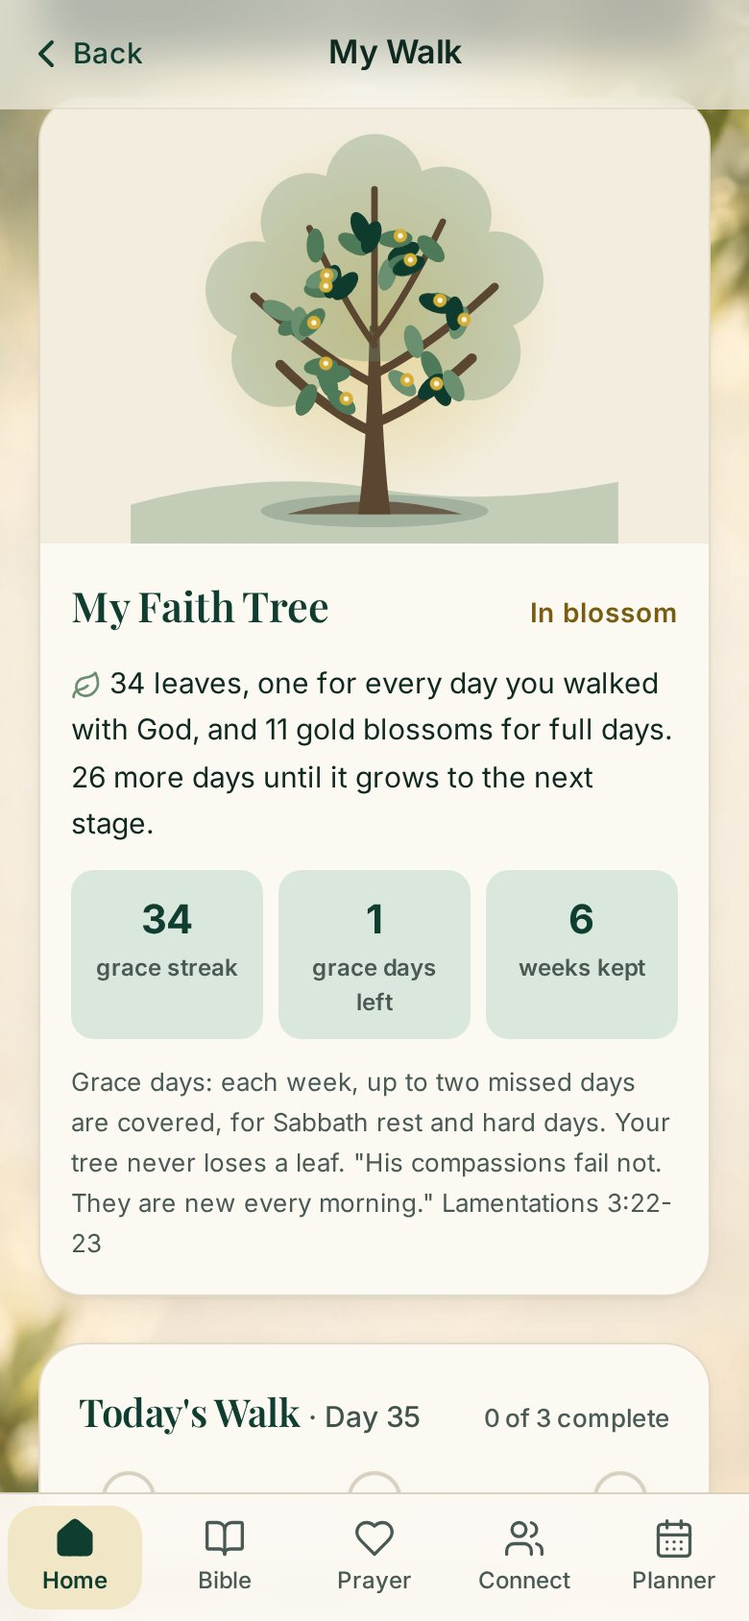
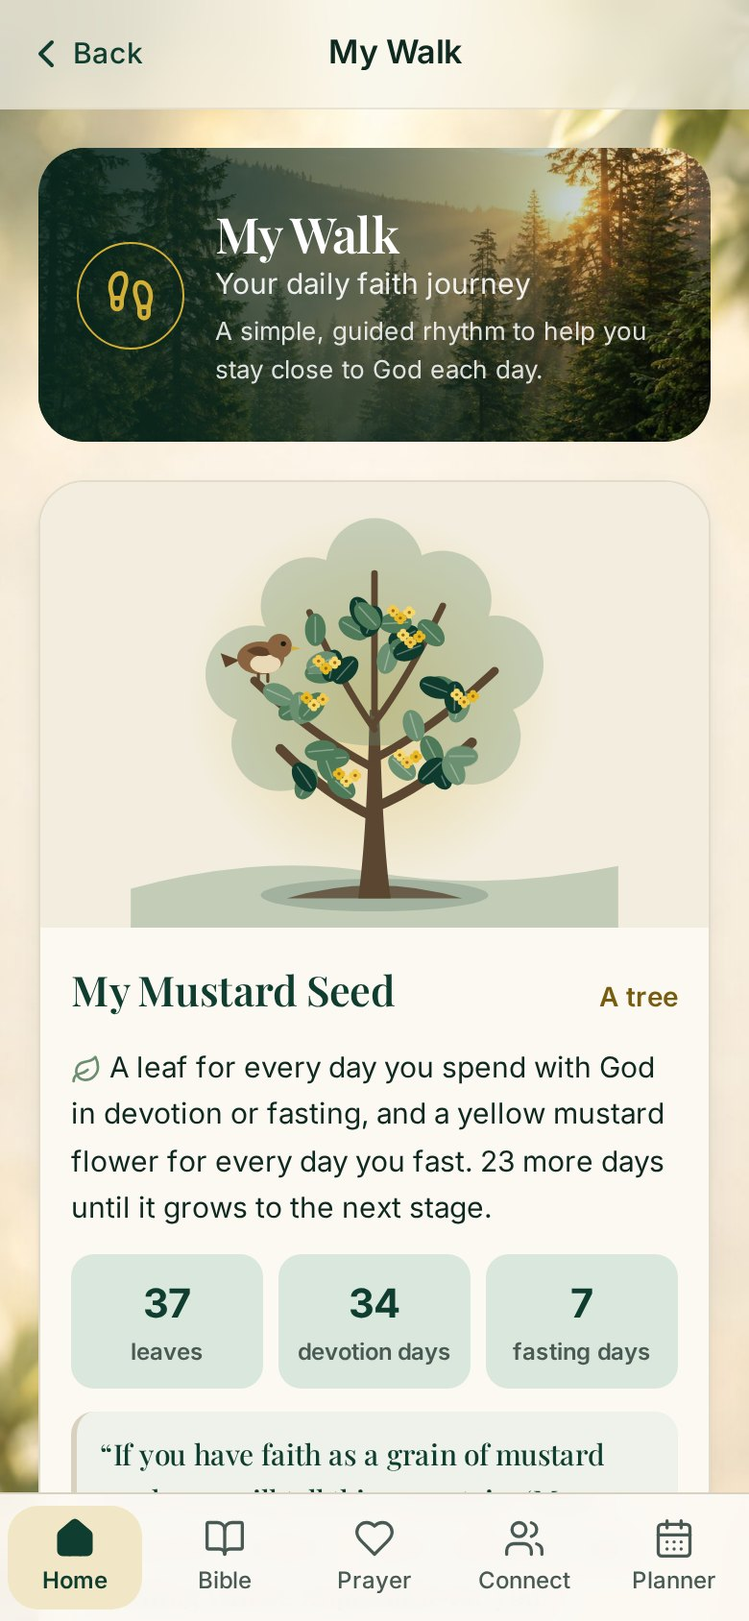
Update website

diff --git a/privacy.html b/privacy.html
@@ -16,9 +16,9 @@
   <a class="btn gold" href="index.html#wl-hero">Join waitlist</a>
 </div></header>
 <main id="main" class="doc"><div class="wrap">
-<h1>Privacy Policy</h1><p class="eff">Effective November 8, 2026</p>
+<h1>Privacy Policy</h1><p class="eff">Effective November 14, 2026</p>
 <p class="intro">Even Here is a Christian Bible and devotional app. Many of the things you write in it are deeply personal, so we built it to collect as little as possible and to keep your private words private. This policy explains what we collect, why, and the choices you have.</p><nav class="toc" aria-label="On this page"><a href="#the-short-version">The short version</a><a href="#information-you-give-us">Information you give us</a><a href="#what-are-you-facing-and-ai">&quot;What are you facing?&quot; and AI</a><a href="#how-even-here-uses-ai">How Even Here uses AI</a><a href="#information-we-do-not-collect">Information we do not collect</a><a href="#how-we-use-information">How we use information</a><a href="#who-we-share-with">Who we share with</a><a href="#safety">Safety</a><a href="#your-choices">Your choices</a><a href="#children">Children</a><a href="#security">Security</a><a href="#changes">Changes</a></nav>
-<h2 id="the-short-version">The short version</h2><ul><li>You can use Even Here without an account. Without one, everything you save stays on your device.</li><li>Nothing you type in Even Here is sent to AI. That includes your prayers, journal entries, notes, check-ins, healing reflections and the words you type in &quot;What are you facing?&quot;.</li><li>We do not sell your data, show ads, or use third-party analytics or tracking.</li><li>You can delete your account and its data at any time from Profile in the app.</li></ul><h2 id="information-you-give-us">Information you give us</h2><ul><li>Account (optional): if you sign up with email, your email address and a password, handled by our authentication provider (Supabase). We never see your password. If you use Sign in with Apple, Apple shares your name and an email address with us. You can choose Hide My Email, and Apple will give us a private relay address instead.</li><li>Your Even Here content: saved verses, prayers, journal entries, Scripture notes, fasts, plans, check-ins, healing reflections and settings. If you are signed in, these are stored in our database so they sync across your devices, protected so that only your account can read or change them.</li><li>Connect (not available yet): the Prayer Wall, groups and Friends are not turned on in the current app. If we turn them on, they would use your community name, posts, replies, prayer responses, group memberships, friends, blocks and reports. Posts and replies would be visible to other members by design, and moderators could review reported content. We will update this policy before they are turned on.</li><li>Blessing Cards: when you send a card, its words (names, message, verse choice and prayer) are saved under a random private code so the link stays short. Anyone with the link can open that card, but cards cannot be searched or listed. The card is not connected to your account. Card replies: the person who opens a card can choose to send one reply from a fixed list (for example &quot;Amen&quot; or two hearts). Nothing typed is sent. The reply is saved with the card, and only the sender can see it, using a private key kept with the sender&#x27;s own copy of the card. We store only a scrambled version (a hash) of that key. We never record whether, when or how often a card was opened.</li><li>Waitlist: if you join our launch waitlist on our website, your email address, used only to tell you when Even Here is available.</li></ul><h2 id="what-are-you-facing-and-ai">&quot;What are you facing?&quot; and AI</h2><p>When you type in &quot;What are you facing?&quot;, the iPhone app matches your words to topics from the Even Here library on your phone. What you type is not sent to us, to AI, or anywhere else.</p><p>The current iPhone app has no live AI features. If we add an AI feature later, such as Smart matching, it will be off until you choose to allow it, and we will update this policy first.</p><p>AI never writes Scripture in Even Here. Verses always come from the King James Version or World English Bible.</p><h2 id="how-even-here-uses-ai">How Even Here uses AI</h2><ul><li>Scripture: never written by AI. Every verse comes from the King James Version or World English Bible.</li><li>Reflections, prayers, studies and summaries marked &quot;Written by Even Here&quot; were drafted with help from AI writing tools, then reviewed and edited by the Even Here team.</li><li>Artwork: Selah, the Blessing Card illustrations and backgrounds were made with AI image tools and chosen by the Even Here team.</li><li>Live AI: none in the current iPhone app. Nothing you type is sent to AI.</li><li>Your private words (prayers, journals, notes, check-ins and healing entries) are never sent to AI and never used to train AI.</li></ul><h2 id="information-we-do-not-collect">Information we do not collect</h2><ul><li>We do not collect your location, contacts, photos or microphone audio. Even Here never records audio. If you use your keyboard&#x27;s dictation, that is handled by your device.</li><li>We do not use advertising identifiers, ad networks, or third-party analytics.</li><li>Reminders you set, such as fasting or check-in reminders, are scheduled on your phone. We don&#x27;t receive them.</li></ul><h2 id="how-we-use-information">How we use information</h2><ul><li>To run Even Here: saving and syncing your content, signing you in, and checking App Store purchases.</li><li>To keep any future community features safe: reviewing reports, hiding harmful posts, and honoring blocks.</li><li>To contact you about your account, or about launch if you joined the waitlist.</li><li>We never use your private content to train AI models.</li></ul><h2 id="who-we-share-with">Who we share with</h2><p>We share information only with service providers that help run Even Here, under their own privacy and security terms: our database and authentication provider (Supabase), our website hosting provider, Apple when you sign in with Apple, download the app, or buy a membership or card pack, and RevenueCat, which checks App Store purchases for us. RevenueCat receives your purchase history and a random app ID (your account ID if you&#x27;re signed in), never your journal, prayers or other entries. We may also disclose information if the law requires it or to protect someone&#x27;s safety.</p><h2 id="safety">Safety</h2><p>If you type words that suggest you may be in crisis or in danger, Even Here shows help such as the 988 Suicide &amp; Crisis Lifeline or the National Domestic Violence Hotline. This check happens on your device. We are not notified, and we do not contact anyone.</p><h2 id="your-choices">Your choices</h2><ul><li>Use Even Here without an account, so your data stays on your device.</li><li>Turn daily check-ins and reminders off in Profile.</li><li>Edit or delete individual entries at any time.</li><li>Delete your account in Profile. This permanently removes your account and the content stored with it.</li><li>To be removed from the waitlist, or to ask about your data, contact us using the details below.</li></ul><h2 id="children">Children</h2><p>Even Here is not directed to children under 13, and we do not knowingly collect personal information from them. Accounts are for people 13 and older. Before an account is created on iPhone, we may ask Apple for an age range (for example, under 13, 13 to 17, or 18 and over) where the law requires it. Apple shares only the range, never a birthday, and we keep only a note on your device that the check passed. You can use Even Here without an account at any age. If you believe a child has given us information, contact us and we will delete it.</p><h2 id="security">Security</h2><p>Data is sent over encrypted connections, and signed-in content is protected by database access rules so that each account can reach only its own private data. No system is perfectly secure, but we work to protect what you trust us with.</p><h2 id="changes">Changes</h2><p>If we change this policy, we will update the effective date and, for important changes, let you know in the app.</p>
+<h2 id="the-short-version">The short version</h2><ul><li>You can use Even Here without an account. Without one, everything you save stays on your device.</li><li>Nothing you type in Even Here is sent to AI. That includes your prayers, journal entries, notes, check-ins, healing reflections and the words you type in &quot;What are you facing?&quot;.</li><li>We do not sell your data, show ads, or use third-party analytics or tracking.</li><li>You can delete your account and its data at any time from Profile in the app.</li></ul><h2 id="information-you-give-us">Information you give us</h2><ul><li>Account (optional): if you sign up with email, your email address and a password, handled by our authentication provider (Supabase). We never see your password. If you use Sign in with Apple, Apple shares your name and an email address with us. You can choose Hide My Email, and Apple will give us a private relay address instead.</li><li>Your Even Here content: saved verses, prayers, journal entries, Scripture notes, fasts, plans, check-ins, healing reflections and settings. If you are signed in, these are stored in our database so they sync across your devices, protected so that only your account can read or change them.</li><li>Connect (not available yet): the Prayer Wall, groups and Friends are not turned on in the current app. If we turn them on, they would use your community name, posts, replies, prayer responses, group memberships, friends, blocks and reports. Posts and replies would be visible to other members by design, and moderators could review reported content. We will update this policy before they are turned on.</li><li>Blessing Cards: when you send a card, its words (names, message, verse choice and prayer) are saved under a random private code so the link stays short. Anyone with the link can open that card, but cards cannot be searched or listed. The card is not connected to your account. Card replies: the person who opens a card can choose to send one reply, either from a short list (for example &quot;Thank you&quot; or two hearts) or a few words they write themselves (up to 300 characters). The reply is saved with the card, is never sent to AI, and only the sender can see it, using a private key kept with the sender&#x27;s own copy of the card. We store only a scrambled version (a hash) of that key. We never record whether, when or how often a card was opened.</li><li>Waitlist: if you join our launch waitlist on our website, your email address, used only to tell you when Even Here is available.</li></ul><h2 id="what-are-you-facing-and-ai">&quot;What are you facing?&quot; and AI</h2><p>When you type in &quot;What are you facing?&quot;, the iPhone app matches your words to topics from the Even Here library on your phone. What you type is not sent to us, to AI, or anywhere else.</p><p>The current iPhone app has no live AI features. If we add an AI feature later, such as Smart matching, it will be off until you choose to allow it, and we will update this policy first.</p><p>AI never writes Scripture in Even Here. Verses always come from the King James Version or World English Bible.</p><h2 id="how-even-here-uses-ai">How Even Here uses AI</h2><ul><li>Scripture: never written by AI. Every verse comes from the King James Version or World English Bible.</li><li>Reflections, prayers, studies and summaries marked &quot;Written by Even Here&quot; were drafted with help from AI writing tools, then reviewed and edited by the Even Here team.</li><li>Artwork: Selah, the Blessing Card illustrations and backgrounds were made with AI image tools and chosen by the Even Here team.</li><li>Live AI: none in the current iPhone app. Nothing you type is sent to AI.</li><li>Your private words (prayers, journals, notes, check-ins and healing entries) are never sent to AI and never used to train AI.</li></ul><h2 id="information-we-do-not-collect">Information we do not collect</h2><ul><li>We do not collect your location, contacts, photos or microphone audio. Even Here never records audio. If you use your keyboard&#x27;s dictation, that is handled by your device.</li><li>We do not use advertising identifiers, ad networks, or third-party analytics.</li><li>Reminders you set, such as fasting or check-in reminders, are scheduled on your phone. We don&#x27;t receive them.</li><li>News notifications (iPhone, off unless you turn them on in Profile): if you turn on &quot;News from Even Here&quot;, your phone&#x27;s push token, a code from Apple that lets us send a notification, is saved without your account, name or email. We use it only for occasional announcements, at most one a week. Turning news off deletes it. If you remove the app, it is deleted the next time we try to send.</li></ul><h2 id="how-we-use-information">How we use information</h2><ul><li>To run Even Here: saving and syncing your content, signing you in, and checking App Store purchases.</li><li>To keep any future community features safe: reviewing reports, hiding harmful posts, and honoring blocks.</li><li>To contact you about your account, or about launch if you joined the waitlist.</li><li>We never use your private content to train AI models.</li></ul><h2 id="who-we-share-with">Who we share with</h2><p>We share information only with service providers that help run Even Here, under their own privacy and security terms: our database and authentication provider (Supabase), our website hosting provider, Apple when you sign in with Apple, download the app, or buy a membership or card pack, and RevenueCat, which checks App Store purchases for us. RevenueCat receives your purchase history and a random app ID (your account ID if you&#x27;re signed in), never your journal, prayers or other entries. We may also disclose information if the law requires it or to protect someone&#x27;s safety.</p><h2 id="safety">Safety</h2><p>If you type words that suggest you may be in crisis or in danger, Even Here shows help such as the 988 Suicide &amp; Crisis Lifeline or the National Domestic Violence Hotline. This check happens on your device. We are not notified, and we do not contact anyone.</p><h2 id="your-choices">Your choices</h2><ul><li>Use Even Here without an account, so your data stays on your device.</li><li>Turn daily check-ins, reminders and news notifications off in Profile.</li><li>Edit or delete individual entries at any time.</li><li>Delete your account in Profile. This permanently removes your account and the content stored with it.</li><li>To be removed from the waitlist, or to ask about your data, contact us using the details below.</li></ul><h2 id="children">Children</h2><p>Even Here is not directed to children under 13, and we do not knowingly collect personal information from them. Accounts are for people 13 and older. Before an account is created on iPhone, we may ask Apple for an age range (for example, under 13, 13 to 17, or 18 and over) where the law requires it. Apple shares only the range, never a birthday, and we keep only a note on your device that the check passed. You can use Even Here without an account at any age. If you believe a child has given us information, contact us and we will delete it.</p><h2 id="security">Security</h2><p>Data is sent over encrypted connections, and signed-in content is protected by database access rules so that each account can reach only its own private data. No system is perfectly secure, but we work to protect what you trust us with.</p><h2 id="changes">Changes</h2><p>If we change this policy, we will update the effective date and, for important changes, let you know in the app.</p>
 <div class="contact"><h2>Questions</h2><p>Reach us at <a class="link" href="mailto:support@getevenhere.com">support@getevenhere.com</a>.</p></div>
 </div></main>
 <footer><div class="wrap">

diff --git a/terms.html b/terms.html
@@ -16,7 +16,7 @@
   <a class="btn gold" href="index.html#wl-hero">Join waitlist</a>
 </div></header>
 <main id="main" class="doc"><div class="wrap">
-<h1>Terms of Use</h1><p class="eff">Effective November 8, 2026</p>
+<h1>Terms of Use</h1><p class="eff">Effective November 14, 2026</p>
 <p class="intro">Welcome to Even Here. By using the app or website, you agree to these terms. Please read them along with our Privacy Policy.</p><nav class="toc" aria-label="On this page"><a href="#what-even-here-is">What Even Here is</a><a href="#not-professional-advice">Not professional advice</a><a href="#your-account">Your account</a><a href="#community-rules-when-connect-is-available">Community rules (when Connect is available)</a><a href="#your-content">Your content</a><a href="#bible-text-and-even-here-content">Bible text and Even Here content</a><a href="#subscriptions-and-free-trial">Subscriptions and free trial</a><a href="#acceptable-use">Acceptable use</a><a href="#disclaimers">Disclaimers</a><a href="#limitation-of-liability">Limitation of liability</a><a href="#indemnification">Indemnification</a><a href="#apple-app-store-terms">Apple App Store terms</a><a href="#changes-and-governing-law">Changes and governing law</a></nav>
 <h2 id="what-even-here-is">What Even Here is</h2><p>Even Here is a Christian devotional companion written from an evangelical, Protestant perspective. It offers Bible reading, devotionals, prayer tools, fasting guidance and help for hard moments. Even Here is run by its owner in Colorado Springs, Colorado (&quot;Even Here,&quot; &quot;we&quot; or &quot;us&quot;).</p><h2 id="not-professional-advice">Not professional advice</h2><p>Even Here is not a substitute for a pastor, counselor, doctor, lawyer or emergency service. Fasting guidance is spiritual, not medical; talk to a doctor before fasting from food, especially if you are pregnant, have a medical condition or take medication. If you are in crisis, call or text 988 in the U.S. If you are in danger, call 911.</p><h2 id="your-account">Your account</h2><p>You can use most of Even Here without an account. You must be 13 or older to create one. If you create one, keep your password safe and give accurate information. You may delete your account at any time in Profile. We may suspend or close accounts that break these terms.</p><h2 id="community-rules-when-connect-is-available">Community rules (when Connect is available)</h2><ul><li>The Prayer Wall, groups and Friends are not turned on in the current app. These rules apply if and when they are.</li><li>You must be 13 or older to use Connect.</li><li>Speak the truth in love. No insults, harassment, hate, threats, sexual content, spam, selling or recruiting.</li><li>No shaming and no spiritual pressure. Never pressure anyone to attend, give, serve or forgive on a timeline.</li><li>Respect privacy. Do not share someone else&#x27;s story or details without permission.</li><li>Even Here has zero tolerance for objectionable content and abusive users. You must agree to the Community Guidelines before posting.</li><li>Anonymous posts hide your name from other members, but Even Here moderators can see which account posted so we can keep people safe. No app can promise complete anonymity.</li><li>You can report any post and block any person. We review reports within 24 hours, remove content that breaks these rules, and may pause or permanently stop accounts from posting. Posts reported by several people are hidden automatically.</li><li>Even Here is not an emergency service. If you or someone else is in danger, call or text 988, or call 911.</li></ul><h2 id="your-content">Your content</h2><p>You own what you write. You give Even Here permission to store and display it only as needed to run the app, for example syncing your private entries to your devices or showing your community posts to other members.</p><h2 id="bible-text-and-even-here-content">Bible text and Even Here content</h2><p>Bible text comes from the King James Version and the World English Bible, both in the public domain in the United States. Devotionals, reflections, prayers, artwork and design written or made by Even Here are labeled in the app and are owned by Even Here. Please do not copy them for commercial use without permission.</p><h2 id="subscriptions-and-free-trial">Subscriptions and free trial</h2><p>Even Here has a free plan and a paid membership. The free plan includes the Bible, Scripture for what you&#x27;re going through with day 1 of each walk, Temptation SOS, Peace Mode, your private journal and saved verses, and 5 Blessing Cards each calendar month for everyday moments and milestones. Holiday cards are part of membership, or anyone can unlock them with the one-time Holiday Pack. Membership costs $7.99 per month or $49.99 per year (U.S. prices) and unlocks everything, including unlimited Blessing Cards. New members get a 2-week free trial. There is no weekly plan.</p><p>Some things are always free without a subscription: crisis help, opening a Blessing Card someone sends you, our Privacy Policy and Terms, and deleting your account. Unused free cards don&#x27;t carry over to the next month.</p><p>Card packs are one-time purchases, not subscriptions. The 10 Blessing Card pack ($1.99) adds 10 cards that never expire, used only after your 5 free cards for the month. The Holiday Pack ($2.99) unlocks every holiday card for your account for as long as Even Here offers them. You don&#x27;t need an account to buy. The Holiday Pack is tied to your Apple ID, so Restore purchases brings it back on a new phone. Cards from 10-card packs are kept on your Even Here account if you&#x27;re signed in; without an account they stay on that phone and can be lost if you delete the app or change phones.</p><p>Membership and card packs are sold through the Apple App Store and charged to your Apple account. You don&#x27;t need an Even Here account to subscribe; your membership follows your Apple ID. If you don&#x27;t cancel during the free trial, your subscription starts when the trial ends. Subscriptions renew automatically unless you cancel at least 24 hours before the end of the current period. You can manage or cancel anytime in your Apple account settings. Refunds are handled by Apple under its own refund rules, so Even Here can&#x27;t issue or deny refunds. To ask Apple for one, sign in at reportaproblem.apple.com and choose Request a refund. Canceling stops future renewals but doesn&#x27;t refund the current period.</p><h2 id="acceptable-use">Acceptable use</h2><p>Do not misuse Even Here, try to access other people&#x27;s data, interfere with the service, or use it for anything unlawful.</p><h2 id="disclaimers">Disclaimers</h2><p>Even Here is provided &quot;as is&quot; and &quot;as available.&quot; To the fullest extent the law allows, we make no warranties of any kind, express or implied, including warranties of merchantability, fitness for a particular purpose and non-infringement. We work to keep Even Here available and accurate, but we can&#x27;t promise it will always be error-free, uninterrupted or secure.</p><p>Devotionals, prayers and guidance in Even Here are for spiritual encouragement only. You are responsible for your own decisions, including decisions about fasting, your health, your relationships and your safety.</p><h2 id="limitation-of-liability">Limitation of liability</h2><p>To the fullest extent the law allows, Even Here and its owner, team and service providers will not be liable for any indirect, incidental, special, consequential or punitive damages, or for any loss of data, profits or goodwill, arising from your use of or inability to use Even Here.</p><p>To the fullest extent the law allows, our total liability for any claim related to Even Here is limited to the greater of the amount you paid for Even Here in the 12 months before the claim, or $50 (U.S.).</p><p>Some places don&#x27;t allow certain limits on liability. In those places, these limits apply only as far as the law allows.</p><h2 id="indemnification">Indemnification</h2><p>If you misuse Even Here, break these terms or the law, or violate someone else&#x27;s rights, you agree to cover the reasonable costs, including legal fees, that Even Here and its owner face from claims caused by that conduct.</p><h2 id="apple-app-store-terms">Apple App Store terms</h2><ul><li>If you downloaded Even Here from the Apple App Store, Apple&#x27;s Licensed Application End User License Agreement (apple.com/legal/internet-services/itunes/dev/stdeula) also applies. If the two conflict, these terms control, except where Apple&#x27;s terms require otherwise.</li><li>These terms are between you and Even Here, not Apple. Even Here, not Apple, is responsible for the app and its content.</li><li>Apple has no obligation to provide maintenance or support for Even Here. For help, contact us using the details below.</li><li>If Even Here fails to meet any warranty that applies by law, you may notify Apple, and Apple may refund the purchase price of the app, if any. Apple has no other warranty obligation for Even Here.</li><li>Even Here, not Apple, is responsible for addressing any claims about the app, including product liability claims, claims that the app fails to meet legal or regulatory requirements, consumer protection or privacy claims, and claims that the app infringes someone else&#x27;s intellectual property.</li><li>You confirm that you are not located in a country under a U.S. government embargo or listed by the U.S. government as a terrorist-supporting country, and that you are not on any U.S. government list of prohibited or restricted parties.</li><li>Apple and its subsidiaries are third-party beneficiaries of these terms. Once you accept them, Apple has the right to enforce them against you.</li></ul><h2 id="changes-and-governing-law">Changes and governing law</h2><p>We may update these terms and will change the effective date when we do. For important changes, we will let you know in the app. If you keep using Even Here after a change, you accept the updated terms.</p><p>These terms are governed by the laws of the State of Colorado, USA, without regard to its conflict-of-law rules. Any dispute will be handled in the state or federal courts located in El Paso County, Colorado, and you and Even Here agree to those courts.</p><p>If any part of these terms can&#x27;t be enforced, the rest still applies. If we don&#x27;t enforce a part right away, we haven&#x27;t given up the right to enforce it later.</p>
 <div class="contact"><h2>Questions</h2><p>Reach us at <a class="link" href="mailto:support@getevenhere.com">support@getevenhere.com</a>.</p></div>

diff --git a/card/card.js b/card/card.js
@@ -248,9 +248,10 @@ $("keep").addEventListener("click", async () => {
   finally { btn.disabled = false; setTimeout(() => { btn.textContent = "Save this card"; }, 2500); }
 });
 
-// Amen back (1.1): the person who opens a short-link card can send ONE reply from a fixed list.
-// Nothing typed, no account. Opening the card is never reported; only a tapped reply is saved.
-(function amenBack() {
+// Card replies (1.1): the person who opens a short-link card can send ONE reply, a short choice or a few
+// words they write (up to 300 characters). No account. Opening the card is never reported; only a sent
+// reply is saved, and only the sender's app can read it. Replies are never sent to AI.
+(function cardReply() {
   const box = document.getElementById("amen");
   const sb = window.FW_SB;
   const code = (new URLSearchParams(location.search).get("c") || "").replace(/[^A-Za-z0-9]/g, "").slice(0, 10);
@@ -260,7 +261,14 @@ $("keep").addEventListener("click", async () => {
   if (!box || !card || (!preview && (!sb || code.length !== 10))) return;
   const HEART = `<svg width="24" height="24" viewBox="0 0 24 24" aria-hidden="true"><path d="M12 20.5s-7.5-4.6-7.5-10.2A4.3 4.3 0 0 1 12 7.6a4.3 4.3 0 0 1 7.5 2.7c0 5.6-7.5 10.2-7.5 10.2z" fill="#C8463F"/></svg>`;
   const HEARTS = `<span class="hearts">${HEART}${HEART}</span>`;
-  const WORDS = { amen: "Amen", praying: "I'm praying for you too", thanks: "Thank you, I appreciate it", thinking: "Thank you for thinking of me" };
+  const PEN = `<svg width="18" height="18" viewBox="0 0 24 24" aria-hidden="true"><path d="M4 20h4L19 9l-4-4L4 16v4z" fill="none" stroke="currentColor" stroke-width="2" stroke-linejoin="round"/></svg>`;
+  const WORDS = { amen: "Amen", praying: "I'm praying for you too", thanks: "Thank you", appreciate: "I appreciate you", thinking: "Thank you for thinking of me" };
+  const MAX = 300;
+  // Same crisis words the app listens for. If they show up, 988 comes first.
+  const CRISIS = [/\bsuicid/, /\bkill(ing)? my ?self\b/, /\bend my life\b/, /\btake my (own )?life\b/, /\bwant(ed)? to die\b/, /\bwish i (was|were) dead\b/,
+    /\bdon'?t want to (live|be alive|be here)( anymore)?\b/, /\bno reason to live\b/, /\bbetter off (dead|without me)\b/, /\bself[- ]?harm/, /\bcut(ting)? my ?self\b/,
+    /\bhurt(ing)? my ?self\b/, /\bdon'?t want to wake up\b/];
+  const crisis = (t) => { const n = " " + String(t).toLowerCase().replace(/[\u2019']/g, "'").replace(/[^a-z0-9' -]+/g, " ").replace(/\s+/g, " ") + " "; return CRISIS.some((r) => r.test(n)); };
   const esc = (s) => String(s).replace(/[&<>"]/g, (ch) => ({ "&": "&amp;", "<": "&lt;", ">": "&gt;", '"': "&quot;" }[ch]));
   const name = esc(from);
   const store = `even-here-replied-${code}`;
@@ -270,49 +278,64 @@ $("keep").addEventListener("click", async () => {
     body: JSON.stringify(body),
   }).then((r) => (r.ok ? r.json() : Promise.reject(r.status)));
 
-  function showDone(reply) {
-    const said = reply === "hearts" ? HEARTS : `“${esc(WORDS[reply] || "")}”`;
+  function showDone(reply, note) {
+    const said = reply === "hearts" ? HEARTS : reply === "note" ? `“${esc(note || "")}”` : `“${esc(WORDS[reply] || "")}”`;
     box.innerHTML = `<div class="done"><div class="check"><svg width="26" height="26" viewBox="0 0 24 24" aria-hidden="true"><path d="M5 12.5l4.2 4.2L19 7" fill="none" stroke="#0F3B2E" stroke-width="2.8" stroke-linecap="round" stroke-linejoin="round"/></svg></div>
-      <h2>Sent to ${name}</h2><p class="said">${said}</p><p class="sub" style="margin:8px 0 0">${name} will see it in Even Here. Each card gets one reply.</p></div>`;
+      <h2>Sent to ${name}</h2><p class="said${reply === "note" ? " note" : ""}">${said}</p><p class="sub" style="margin:8px 0 0">${name} will see it in Even Here. Each card gets one reply.</p></div>`;
     box.hidden = false;
   }
   function showAsk(isPreview = false) {
-    // Gentle cards are for anyone, including people who may not believe, so they skip "Amen" and "praying".
+    // Gentle cards are for anyone, including people who may not believe, so they skip "praying".
     const faith = tone === "faith";
     const head = isPreview
-      ? `<h2>${esc(to)} can send you a reply</h2><p class="sub">This is your preview. Only ${esc(to)} can tap these, from the card you send.</p>`
-      : `<h2>Send ${name} a reply?</h2><p class="sub">One tap, if you'd like. You don't have to.</p>`;
+      ? `<h2>${esc(to)} can send you a reply</h2><p class="sub">This is your preview. Only ${esc(to)} can tap these or write back, from the card you send.</p>`
+      : `<h2>Send ${name} a reply?</h2><p class="sub">Tap one, or write your own. You don't have to.</p>`;
     box.innerHTML = `${head}
       <div class="opts">
-        <div class="row">${faith ? `<button type="button" class="primary" data-r="amen">Amen</button>` : ""}<button type="button" class="heart${faith ? "" : " solo"}" data-r="hearts" aria-label="Send two red hearts"${faith ? "" : ' style="width:100%"'}>${HEARTS}</button></div>
+        <div class="row"><button type="button" class="primary" data-r="thanks">Thank you</button><button type="button" class="heart" data-r="hearts" aria-label="Send two red hearts">${HEARTS}</button></div>
+        <button type="button" data-r="appreciate">I appreciate you</button>
         ${faith ? `<button type="button" data-r="praying">I'm praying for you too</button>` : ""}
-        <button type="button" data-r="thanks">Thank you, I appreciate it</button>
-        <button type="button" data-r="thinking">Thank you for thinking of me</button>
+        <button type="button" class="write" data-w>${PEN}<span>Write your own reply</span></button>
       </div>
-      ${isPreview ? "" : `<p class="fine">${name} will only see the reply you tap. Opening this card is never reported to anyone.</p>`}`;
+      <div class="compose" hidden>
+        <label for="reply-note" class="lbl">Your reply to ${name}</label>
+        <textarea id="reply-note" rows="4" maxlength="${MAX}" placeholder="Say it in your own words"></textarea>
+        <div class="count" aria-live="polite"><span>0</span> / ${MAX}</div>
+        <div class="help" hidden role="alert">
+          <strong>You matter, and you don't have to carry this alone.</strong>
+          If you're thinking about ending your life or hurting yourself, call or text <a href="tel:988">988</a> now to talk with someone (US, free, any time). If you're in danger, call <a href="tel:911">911</a>.
+        </div>
+        <div class="row"><button type="button" data-cancel>Back</button><button type="button" class="primary" data-send disabled>Send reply</button></div>
+      </div>
+      ${isPreview ? "" : `<p class="fine">${name} will only see the reply you send. Opening this card is never reported to anyone.</p>`}`;
     box.hidden = false;
     if (isPreview) { box.classList.add("preview"); box.querySelectorAll("button").forEach((b) => { b.disabled = true; b.setAttribute("aria-disabled", "true"); }); return; }
+    const opts = box.querySelector(".opts"), compose = box.querySelector(".compose"), ta = box.querySelector("textarea");
+    const count = box.querySelector(".count span"), help = box.querySelector(".help"), sendBtn = box.querySelector("[data-send]");
     box.querySelectorAll("button[data-r]").forEach((b) => b.addEventListener("click", () => send(b.dataset.r)));
+    box.querySelector("[data-w]").addEventListener("click", () => { opts.hidden = true; compose.hidden = false; ta.focus(); });
+    box.querySelector("[data-cancel]").addEventListener("click", () => { compose.hidden = true; opts.hidden = false; box.querySelector(".err")?.remove(); });
+    ta.addEventListener("input", () => {
+      count.textContent = String(ta.value.length);
+      sendBtn.disabled = !ta.value.trim();
+      help.hidden = !crisis(ta.value);
+    });
+    sendBtn.addEventListener("click", () => send("note", ta.value.trim().slice(0, MAX)));
   }
-  function send(reply) {
+  function send(reply, note) {
     box.querySelectorAll("button").forEach((b) => { b.disabled = true; });
     box.querySelector(".err")?.remove();
-    rpc("reply_to_card", { p_id: code, p_reply: reply }).then((res) => {
+    rpc("reply_to_card_v2", { p_id: code, p_reply: reply, p_note: reply === "note" ? note : null }).then((res) => {
       if (res === "sent") {
-        try { localStorage.setItem(store, reply); } catch {}
-        showDone(reply);
-        // Lets the sender's phone know, if they turned on reply notifications. Sends at most once.
-        fetch(`${sb.url}/functions/v1/card-reply-push`, {
-          method: "POST",
-          headers: { "Content-Type": "application/json", apikey: sb.key, Authorization: `Bearer ${sb.key}` },
-          body: JSON.stringify({ code }),
-          keepalive: true,
-        }).catch(() => {});
+        try { localStorage.setItem(store, reply === "note" ? `note:${note}` : reply); } catch {}
+        showDone(reply, note);
       }
       else if (res === "already") { box.innerHTML = `<h2>A reply was already sent</h2><p class="sub" style="margin-bottom:0">Each card gets one reply.</p>`; }
       else box.hidden = true;
     }).catch(() => {
       box.querySelectorAll("button").forEach((b) => { b.disabled = false; });
+      const sendBtn = box.querySelector("[data-send]"), ta = box.querySelector("textarea");
+      if (sendBtn && ta) sendBtn.disabled = !ta.value.trim();
       box.insertAdjacentHTML("beforeend", `<p class="err">Couldn't send just now. Check your connection and try again.</p>`);
     });
   }
@@ -321,6 +344,6 @@ $("keep").addEventListener("click", async () => {
   try { mine = localStorage.getItem(store); } catch {}
   rpc("card_reply_state", { p_id: code }).then((state) => {
     if (state === "open") showAsk();
-    else if (state === "replied" && mine) showDone(mine);
+    else if (state === "replied" && mine) { if (mine.startsWith("note:")) showDone("note", mine.slice(5)); else showDone(mine); }
   }).catch(() => {});
 })();

diff --git a/card/card.css b/card/card.css
@@ -113,6 +113,18 @@ img { display: block; max-width: 100%; height: auto; }
 .amen.preview .opts { opacity: .9; }
 .amen .hearts { display: inline-flex; gap: 1px; vertical-align: middle; }
 .amen .fine { margin: 12px 0 0; font-size: 13px; line-height: 1.45; color: var(--muted); }
+.amen [hidden] { display: none !important; }
+.amen button.write { display: inline-flex; align-items: center; justify-content: center; gap: 8px; border-style: dashed; background: transparent; }
+.amen .compose { text-align: left; }
+.amen .compose .lbl { display: block; font: 600 15px var(--sans); color: var(--forest); margin: 0 0 6px; }
+.amen textarea { width: 100%; box-sizing: border-box; font: 17px/1.45 var(--sans); color: var(--ink); background: #fff; border: 2px solid var(--forest); border-radius: 14px; padding: 12px 14px; resize: vertical; min-height: 110px; }
+.amen textarea:focus { outline: 3px solid var(--gold); outline-offset: 1px; }
+.amen .count { text-align: right; font-size: 13px; color: var(--muted); margin: 4px 2px 10px; }
+.amen .help { background: #fff; border: 2px solid #a3322b; border-radius: 12px; padding: 10px 12px; margin: 0 0 12px; font-size: 15px; line-height: 1.45; color: var(--ink); }
+.amen .help strong { display: block; color: #a3322b; margin-bottom: 4px; }
+.amen .help a { color: #a3322b; font-weight: 700; }
+.amen .compose .row button { flex: 1; }
+.amen .said.note { font-style: normal; white-space: pre-line; overflow-wrap: anywhere; text-align: left; }
 .amen .err { margin: 10px 0 0; font-size: 14px; font-weight: 600; color: #a3322b; }
 .amen .done { display: flex; flex-direction: column; align-items: center; gap: 8px; }
 .amen .check { width: 52px; height: 52px; border-radius: 50%; background: var(--gold); display: grid; place-items: center; }

diff --git a/index.html b/index.html
@@ -76,10 +76,10 @@
             <div class="phone sm mobile-shot"><img src="assets/shots/peace.jpg" alt="Peace Mode, step 1: name what's weighing on you" loading="lazy" width="390" height="844" /></div>
           </article>
           <article class="step" data-shot="assets/shots/walk.jpg">
-            <div class="tag">My Walk and the Faith Tree</div>
+            <div class="tag">My Walk and the mustard seed</div>
             <h3>Growth that never shames you</h3>
-            <p>Morning, midday and evening steps grow a leaf on your Faith Tree. Grace days cover rest and hard weeks, so your tree never loses a leaf.</p>
-            <div class="phone sm mobile-shot"><img src="assets/shots/walk.jpg" alt="My Walk with a Faith Tree in blossom" loading="lazy" width="390" height="844" /></div>
+            <p>Every day of devotion or fasting grows a leaf on your mustard seed, and fasting days bloom yellow flowers. Miss a day or a week and it never loses a leaf. The smallest seed becomes a tree where the birds come to rest.</p>
+            <div class="phone sm mobile-shot"><img src="assets/shots/walk.jpg" alt="My Walk with a mustard seed grown into a tree, with yellow flowers and a bird resting in its branches" loading="lazy" width="390" height="844" /></div>
           </article>
           <article class="step" data-shot="assets/shots/prayer.jpg">
             <div class="tag">Prayer</div>
